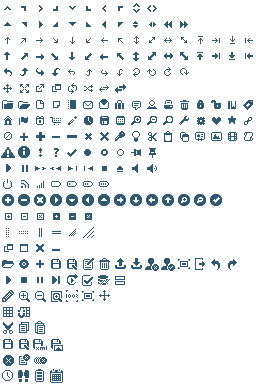
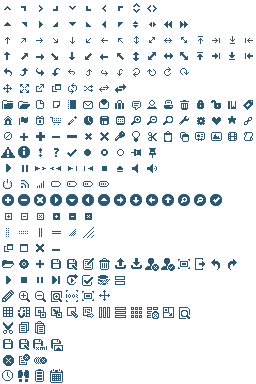
dashboard

Changed region(s): [[0.125, 0.7812, 0.75, 0.8438]]

diff --git a/war/src/main/webapp/resources/styles/themes/aristo/theme.css b/war/src/main/webapp/resources/styles/themes/aristo/theme.css
@@ -1085,6 +1085,46 @@ a {
 {
 	background-position: -16px -304px;
 }
+.ui-icon-dashboard-edit
+{
+	background-position: -32px -304px;
+}
+.ui-icon-dashboard-signal
+{
+	background-position: -48px -304px;
+}
+.ui-icon-dashboard-buddy
+{
+	background-position: -64px -304px;
+}
+.ui-icon-dashboard-tab
+{
+	background-position: -80px -304px;
+}
+.ui-icon-dashboard-layout-horizontal
+{
+	background-position: -96px -304px;
+}
+.ui-icon-dashboard-layout-vertical
+{
+	background-position: -112px -304px;
+}
+.ui-icon-dashboard-layout-grid
+{
+	background-position: -128px -304px;
+}
+.ui-icon-dashboard-layout-broke
+{
+	background-position: -144px -304px;
+}
+.ui-icon-dashboard-resize
+{
+	background-position: -160px -304px;
+}
+.ui-icon-dashboard-preview
+{
+	background-position: -176px -304px;
+}
 
 .ui-icon-system-cut
 {

diff --git a/war/src/main/webapp/pages/editor/editor_dashboard.h b/war/src/main/webapp/pages/editor/editor_dashboard.h
@@ -17,26 +17,28 @@
 	</div>
 	<div id="${editorId}Content" class="fly-flow-content">
 		<div id="${editorId}EditorToolbar" class="ui-toolbar ui-widget-header ui-helper-clearfix ui-corner-top">
-			<fly:pushbutton id="dashboard_edit_component" icon="ui-icon-editor-edit-component" 
+			<fly:pushbutton id="dashboard_edit_component" icon="ui-icon-dashboard-edit" 
 				onclick="" title="编辑控件" />
-			<fly:pushbutton id="dashboard_edit_signal_slot" icon="ui-icon-editor-edit-signal-slot" 
+			<fly:pushbutton id="dashboard_edit_signal_slot" icon="ui-icon-dashboard-signal" 
 				onclick="" title="编辑信号/槽" />
-			<fly:pushbutton id="dashboard_edit_buddy" icon="ui-icon-editor-edit-buddy" 
+			<fly:pushbutton id="dashboard_edit_buddy" icon="ui-icon-dashboard-buddy" 
 				onclick="" title="编辑伙伴" />
-			<fly:pushbutton id="dashboard_edit_tab_sequence" icon="ui-icon-editor-edit-tab-sequence" 
+			<fly:pushbutton id="dashboard_edit_tab_sequence" icon="ui-icon-dashboard-tab" 
 				onclick="" title="编辑Tab顺序" />
 			<fly:pushbutton type="separator" />
-			<fly:pushbutton id="dashboard_layout_horizontal" icon="ui-icon-editor-layout-horizontal" 
+			<fly:pushbutton id="dashboard_layout_horizontal" icon="ui-icon-dashboard-layout-horizontal" 
 				onclick="" title="水平布局" />
-			<fly:pushbutton id="dashboard_layout_vertical" icon="ui-icon-editor-layout-vertical" 
+			<fly:pushbutton id="dashboard_layout_vertical" icon="ui-icon-dashboard-layout-vertical" 
 				onclick="" title="垂直布局" />
-			<fly:pushbutton id="dashboard_layout_grid" icon="ui-icon-editor-layout-grid" 
+			<fly:pushbutton id="dashboard_layout_grid" icon="ui-icon-dashboard-layout-grid" 
 				onclick="" title="栅格布局" />
-			<fly:pushbutton id="dashboard_layout_broke" icon="ui-icon-editor-layout-broke" 
+			<fly:pushbutton id="dashboard_layout_broke" icon="ui-icon-dashboard-layout-broke" 
 				onclick="" title="打破布局" />
 			<fly:pushbutton type="separator" />
-			<fly:pushbutton id="dashboard_resize" icon="ui-icon-editor-resize" 
+			<fly:pushbutton id="dashboard_resize" icon="ui-icon-dashboard-resize" 
 				onclick="" title="调整尺寸" />
+			<fly:pushbutton id="dashboard_preview" icon="ui-icon-dashboard-preview" 
+				onclick="" title="预览" />
 		</div>
 		
 		<div id="${editorId}EditorPanel" oncontextmenu="return false;" class="fly-editor ui-helper-clearfix" 
